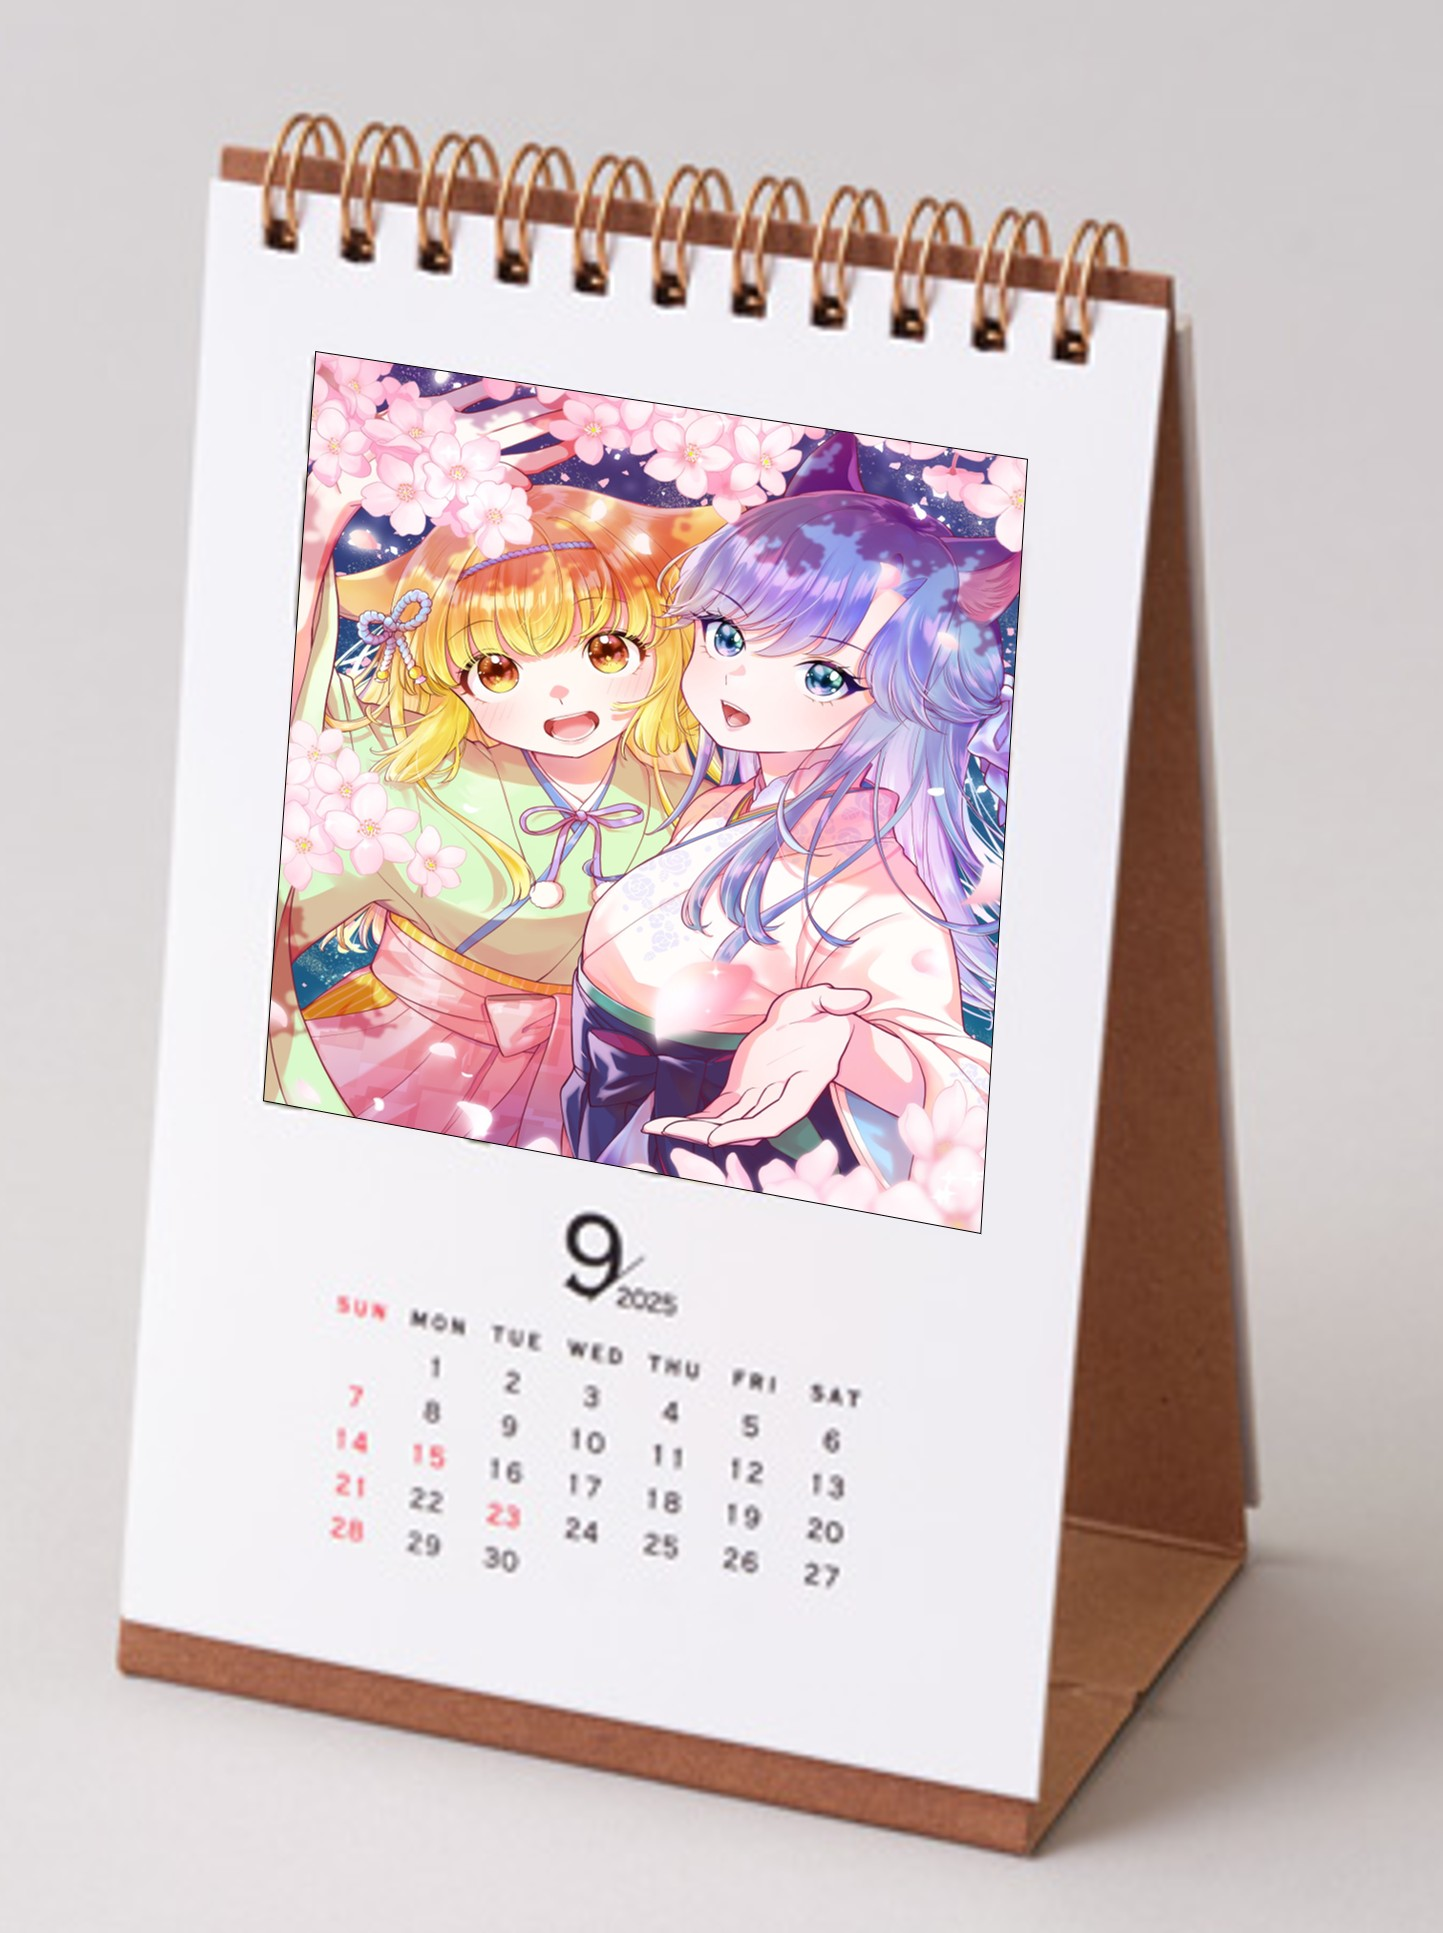
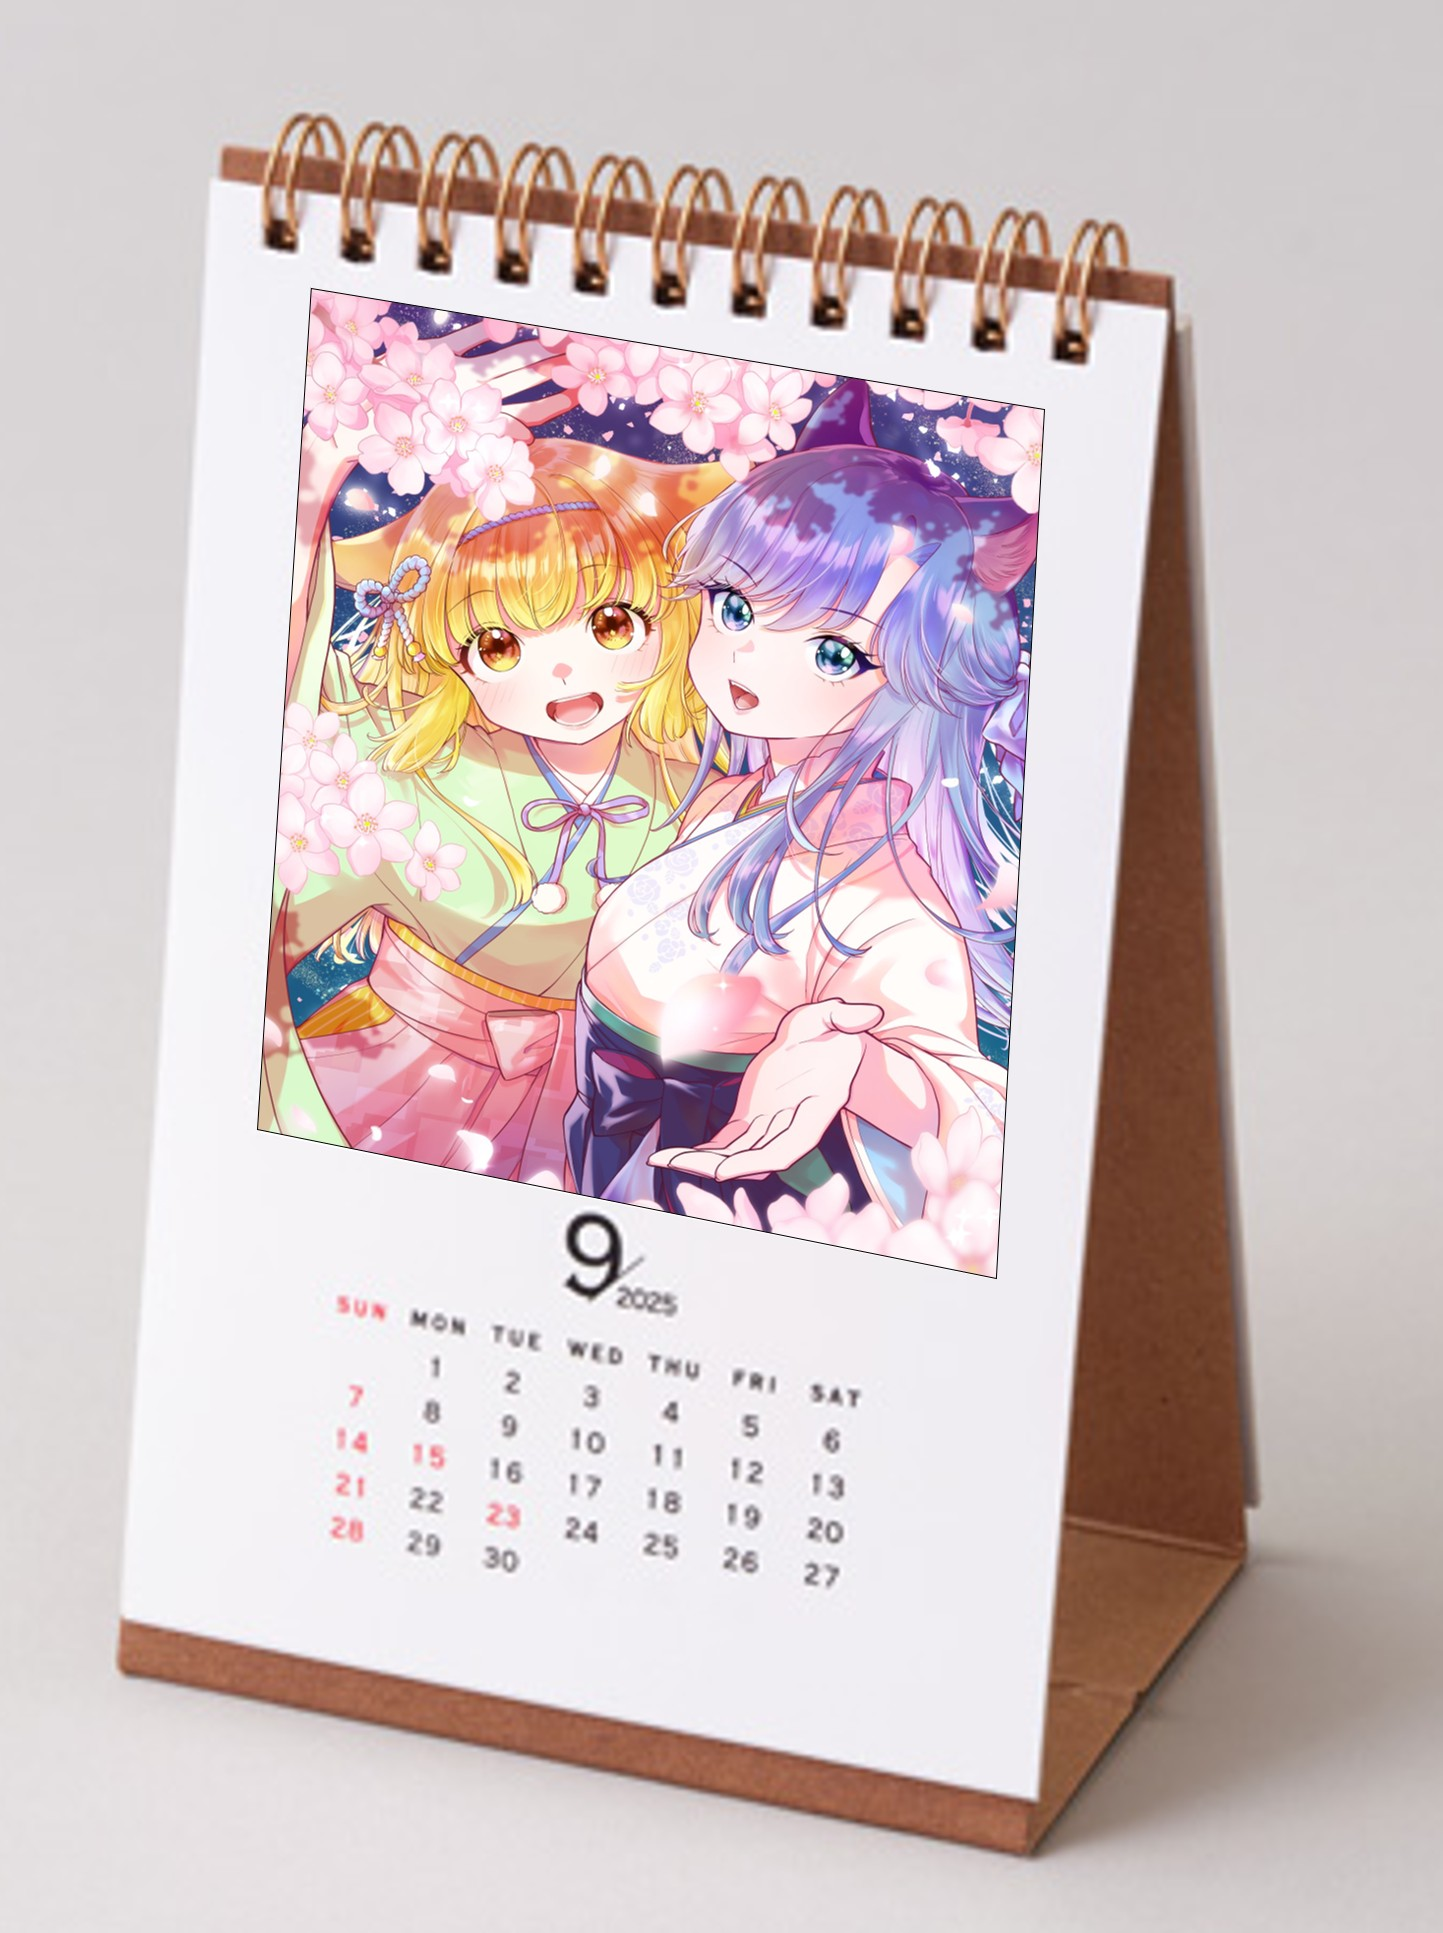
デプロイ反映: 製品イメージの表示高さを統一し、サイズ表記を追加

Changed region(s): [[0.1559, 0.1242, 0.7173, 0.6829]]

diff --git a/index.html b/index.html
@@ -16,19 +16,35 @@
 
       <section aria-labelledby="samples-title">
         <div class="section-head">
-          <h2 id="samples-title">実物見本</h2>
+          <h2 id="samples-title">製品イメージ</h2>
           <a class="btn btn-cute" href="apply.html" aria-label="カレンダー購入はこちら">🎀 カレンダー購入はこちら</a>
         </div>
-        <p class="muted">製品イメージ</p>
+        <p class="muted">卓上と壁掛け、それぞれの雰囲気をご確認ください。</p>
         <div class="sample-grid" role="list" aria-label="カレンダー見本画像">
           <figure class="sample-card" role="listitem">
-            <img loading="lazy" src="image2/卓上カレンダー見本.jpg" alt="卓上カレンダー 見本画像" />
-            <figcaption>卓上カレンダー 見本</figcaption>
+            <img loading="lazy" class="sample-img" src="image2/卓上カレンダー見本.jpg" alt="卓上カレンダー 見本画像" />
+            <figcaption>
+              卓上カレンダー 見本
+              <span class="size-badge" aria-label="卓上カレンダーのサイズ">縦152㎜ × 横102㎜</span>
+            </figcaption>
           </figure>
           <figure class="sample-card" role="listitem">
-            <img loading="lazy" src="image2/壁掛けカレンダー見本.jpg" alt="壁掛けカレンダー 見本画像" />
-            <figcaption>壁掛けカレンダー 見本</figcaption>
+            <img loading="lazy" class="sample-img" src="image2/壁掛けカレンダー見本.jpg" alt="壁掛けカレンダー 見本画像" />
+            <figcaption>
+              壁掛けカレンダー 見本
+              <span class="size-badge" aria-label="壁掛けカレンダーのサイズ">縦420㎜ × 横297㎜</span>
+            </figcaption>
           </figure>
+        </div>
+        <div class="notes-grid" aria-hidden="false">
+          <div class="note-card">
+            <strong>卓上カレンダー</strong><br>
+            デスクに置いても邪魔しないコンパクトなサイズ。本棚やPCの横にもすっと収まります。
+          </div>
+          <div class="note-card">
+            <strong>壁掛けカレンダー</strong><br>
+            A3縦の大きなサイズで、壁がぱっと華やかに。離れても視認性ばつぐんです。
+          </div>
         </div>
       </section>
 

diff --git a/simple.css b/simple.css
@@ -41,7 +41,17 @@ h2{margin:28px 0 10px;font-size:clamp(18px,2.5vw,24px)}
 .sample-grid{display:grid;grid-template-columns:1fr;gap:12px;margin-top:8px}
 .sample-card{margin:0;border:1px solid var(--line);border-radius:10px;padding:8px;background:#fff}
 .sample-card img{display:block;width:100%;height:auto;border-radius:6px}
-.sample-card figcaption{margin-top:6px;color:var(--muted);font-size:.9rem}
+.sample-card .sample-img{
+  aspect-ratio: 4 / 3; /* 同じ縦横比で高さを統一 */
+  object-fit: contain;
+  background:#f6f7f9;
+  border:1px solid var(--line);
+  border-radius:8px;
+}
+.sample-card figcaption{margin-top:6px;color:var(--muted);font-size:.9rem;display:flex;align-items:center;gap:10px;flex-wrap:wrap}
+.size-badge{display:inline-block;border:1px solid var(--line);background:#fff;border-radius:999px;padding:2px 8px;font-size:.8rem;color:#666}
+.notes-grid{display:grid;grid-template-columns:1fr;gap:10px;margin-top:10px}
+.note-card{background:#fff;border:1px solid var(--line);border-radius:10px;padding:10px;color:var(--fg)}
 .cta{margin:20px 0}
 .btn{appearance:none;border:1px solid var(--line);background:#fff7fb;color:#333;border-radius:999px;padding:10px 14px;font-weight:600}
 .btn-cute{background:linear-gradient(180deg,#ffe9f3,#ffd3e7);border-color:#ffc1dc;color:#8c3461;box-shadow:0 2px 0 #f3a9ca,0 6px 18px rgba(255, 145, 194, .45)}
@@ -54,6 +64,7 @@ h2{margin:28px 0 10px;font-size:clamp(18px,2.5vw,24px)}
   .products{grid-template-columns:1fr 1fr}
   .gallery-grid{grid-template-columns:1fr 1fr 1fr}
   .sample-grid{grid-template-columns:1fr 1fr}
+  .notes-grid{grid-template-columns:1fr 1fr}
 }
 @media(min-width:1000px){
   .gallery-grid{grid-template-columns:repeat(4,1fr)}
